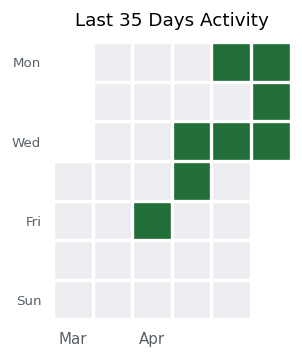
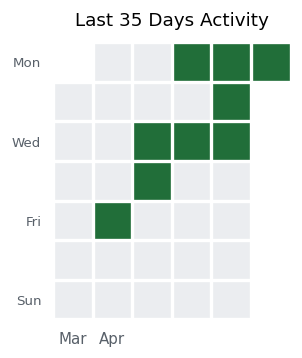
Lab Entry: 2026-04-27

diff --git a/README.md b/README.md
@@ -1,7 +1,7 @@
-# 🏃 平均週 2.8 回でつーがく中！
+# 🏃 平均週 2.5 回でつーがく中！
 <p align="center">
   <img src="./monthly_report.png" alt="Attendance Calendar">
 </p>
 
 ___
-*最終更新: 2026-04-22*
+*最終更新: 2026-04-27*
